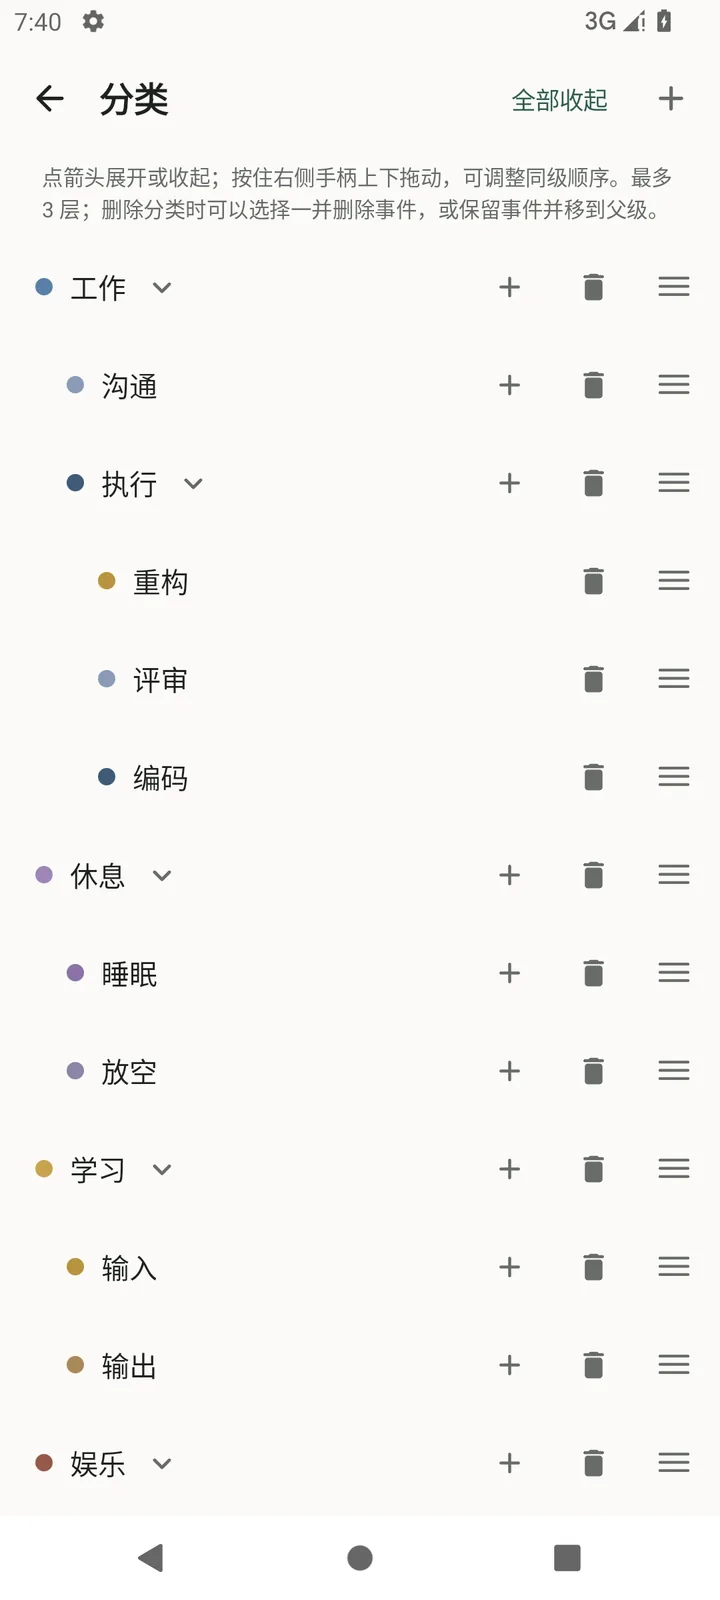
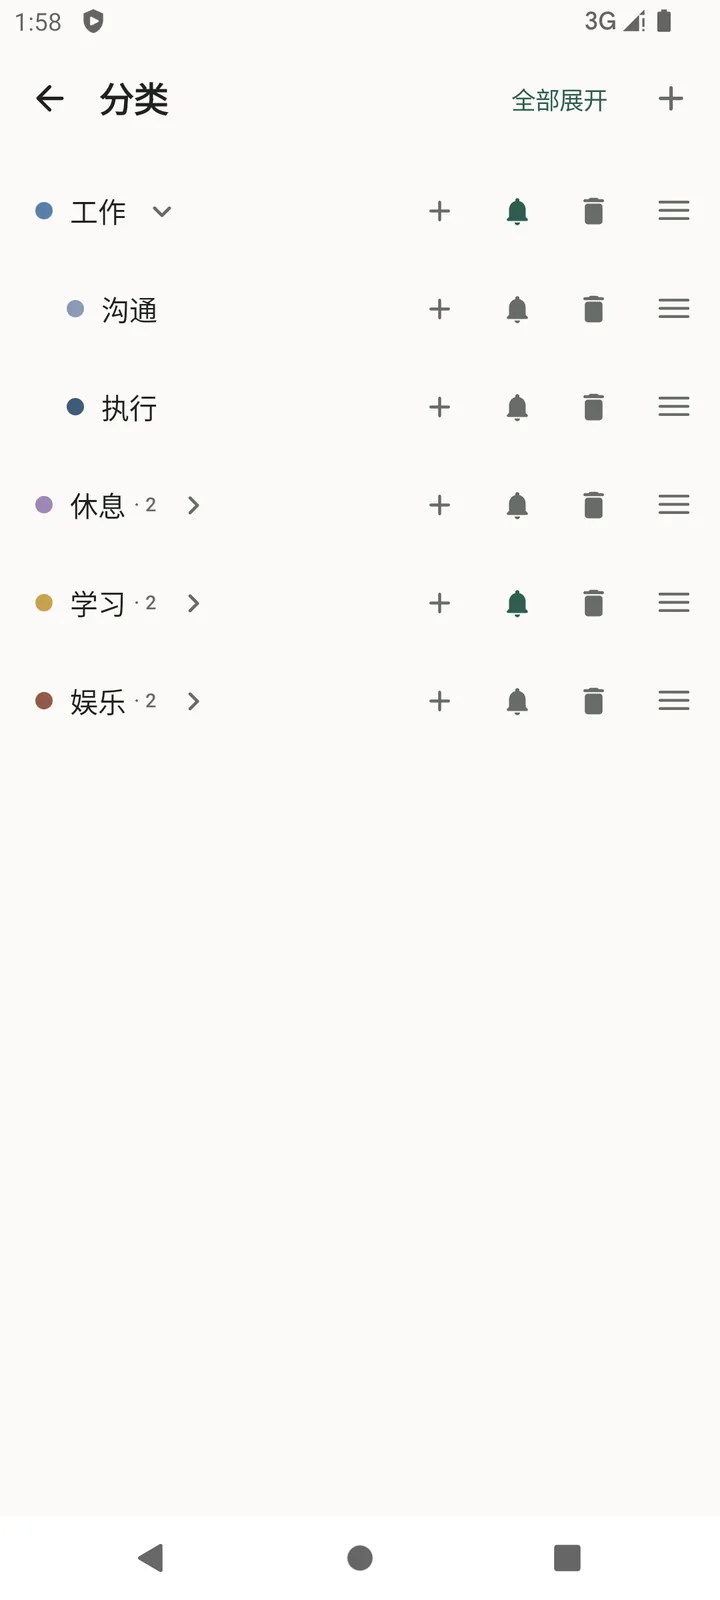
docs: update screenshots for 0.4.1

diff --git a/README.md b/README.md
@@ -38,7 +38,7 @@
 
 | 记录表单 | 分类编辑 | 分类管理 | 备注搜索 |
 |:---:|:---:|:---:|:---:|
-| <img src="docs/screenshots/record-sheet.webp" width="220" alt="记录表单：三级分类三栏、开始结束与时长"> | <img src="docs/screenshots/category-editor.webp" width="220" alt="分类编辑：节气色板"> | <img src="docs/screenshots/categories.webp" width="220" alt="分类管理：展开收起与拖动排序"> | <img src="docs/screenshots/search.webp" width="220" alt="备注搜索与时间总和"> |
+| <img src="docs/screenshots/record-sheet.webp" width="220" alt="记录表单：三级分类三栏、开始结束与时长"> | <img src="docs/screenshots/category-editor.webp" width="220" alt="分类编辑：颜色默认收起"> | <img src="docs/screenshots/categories.webp" width="220" alt="分类管理：目标提醒图标、展开与拖动排序"> | <img src="docs/screenshots/search.webp" width="220" alt="备注搜索与时间总和"> |
 
 深色模式：[时间轴](docs/screenshots/home-dark.webp) · [统计](docs/screenshots/stats-dark.webp)
 
